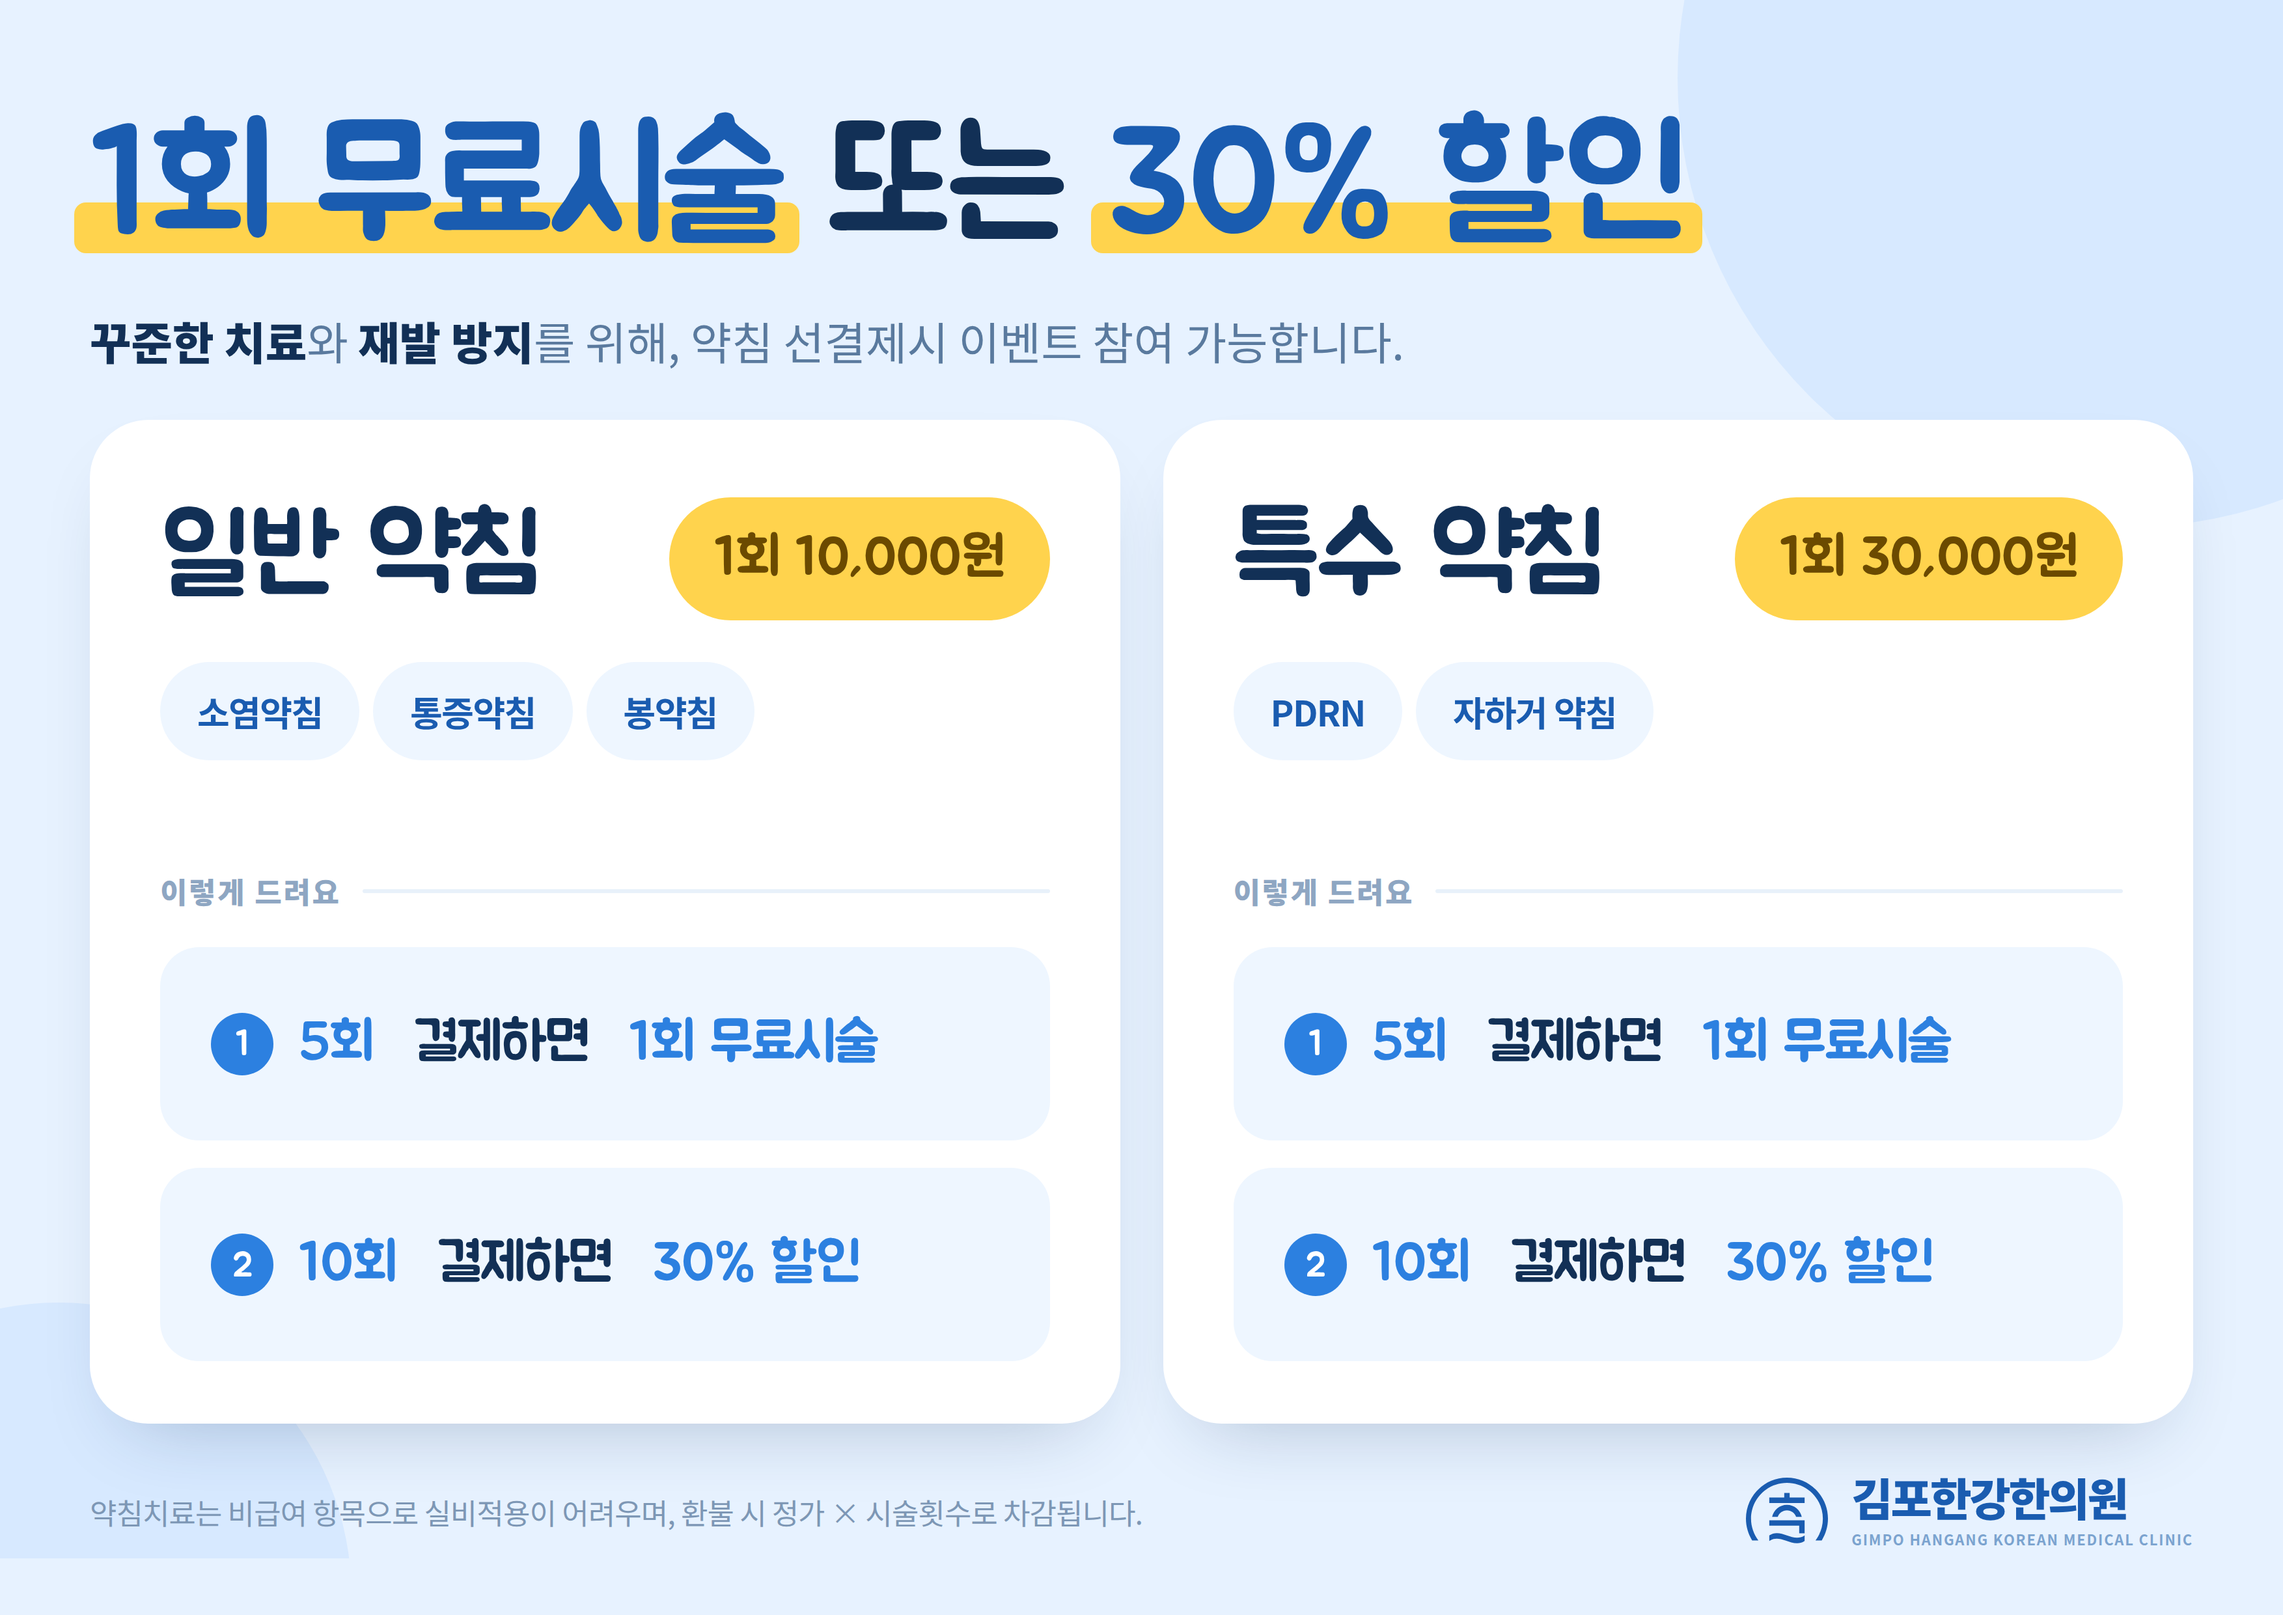
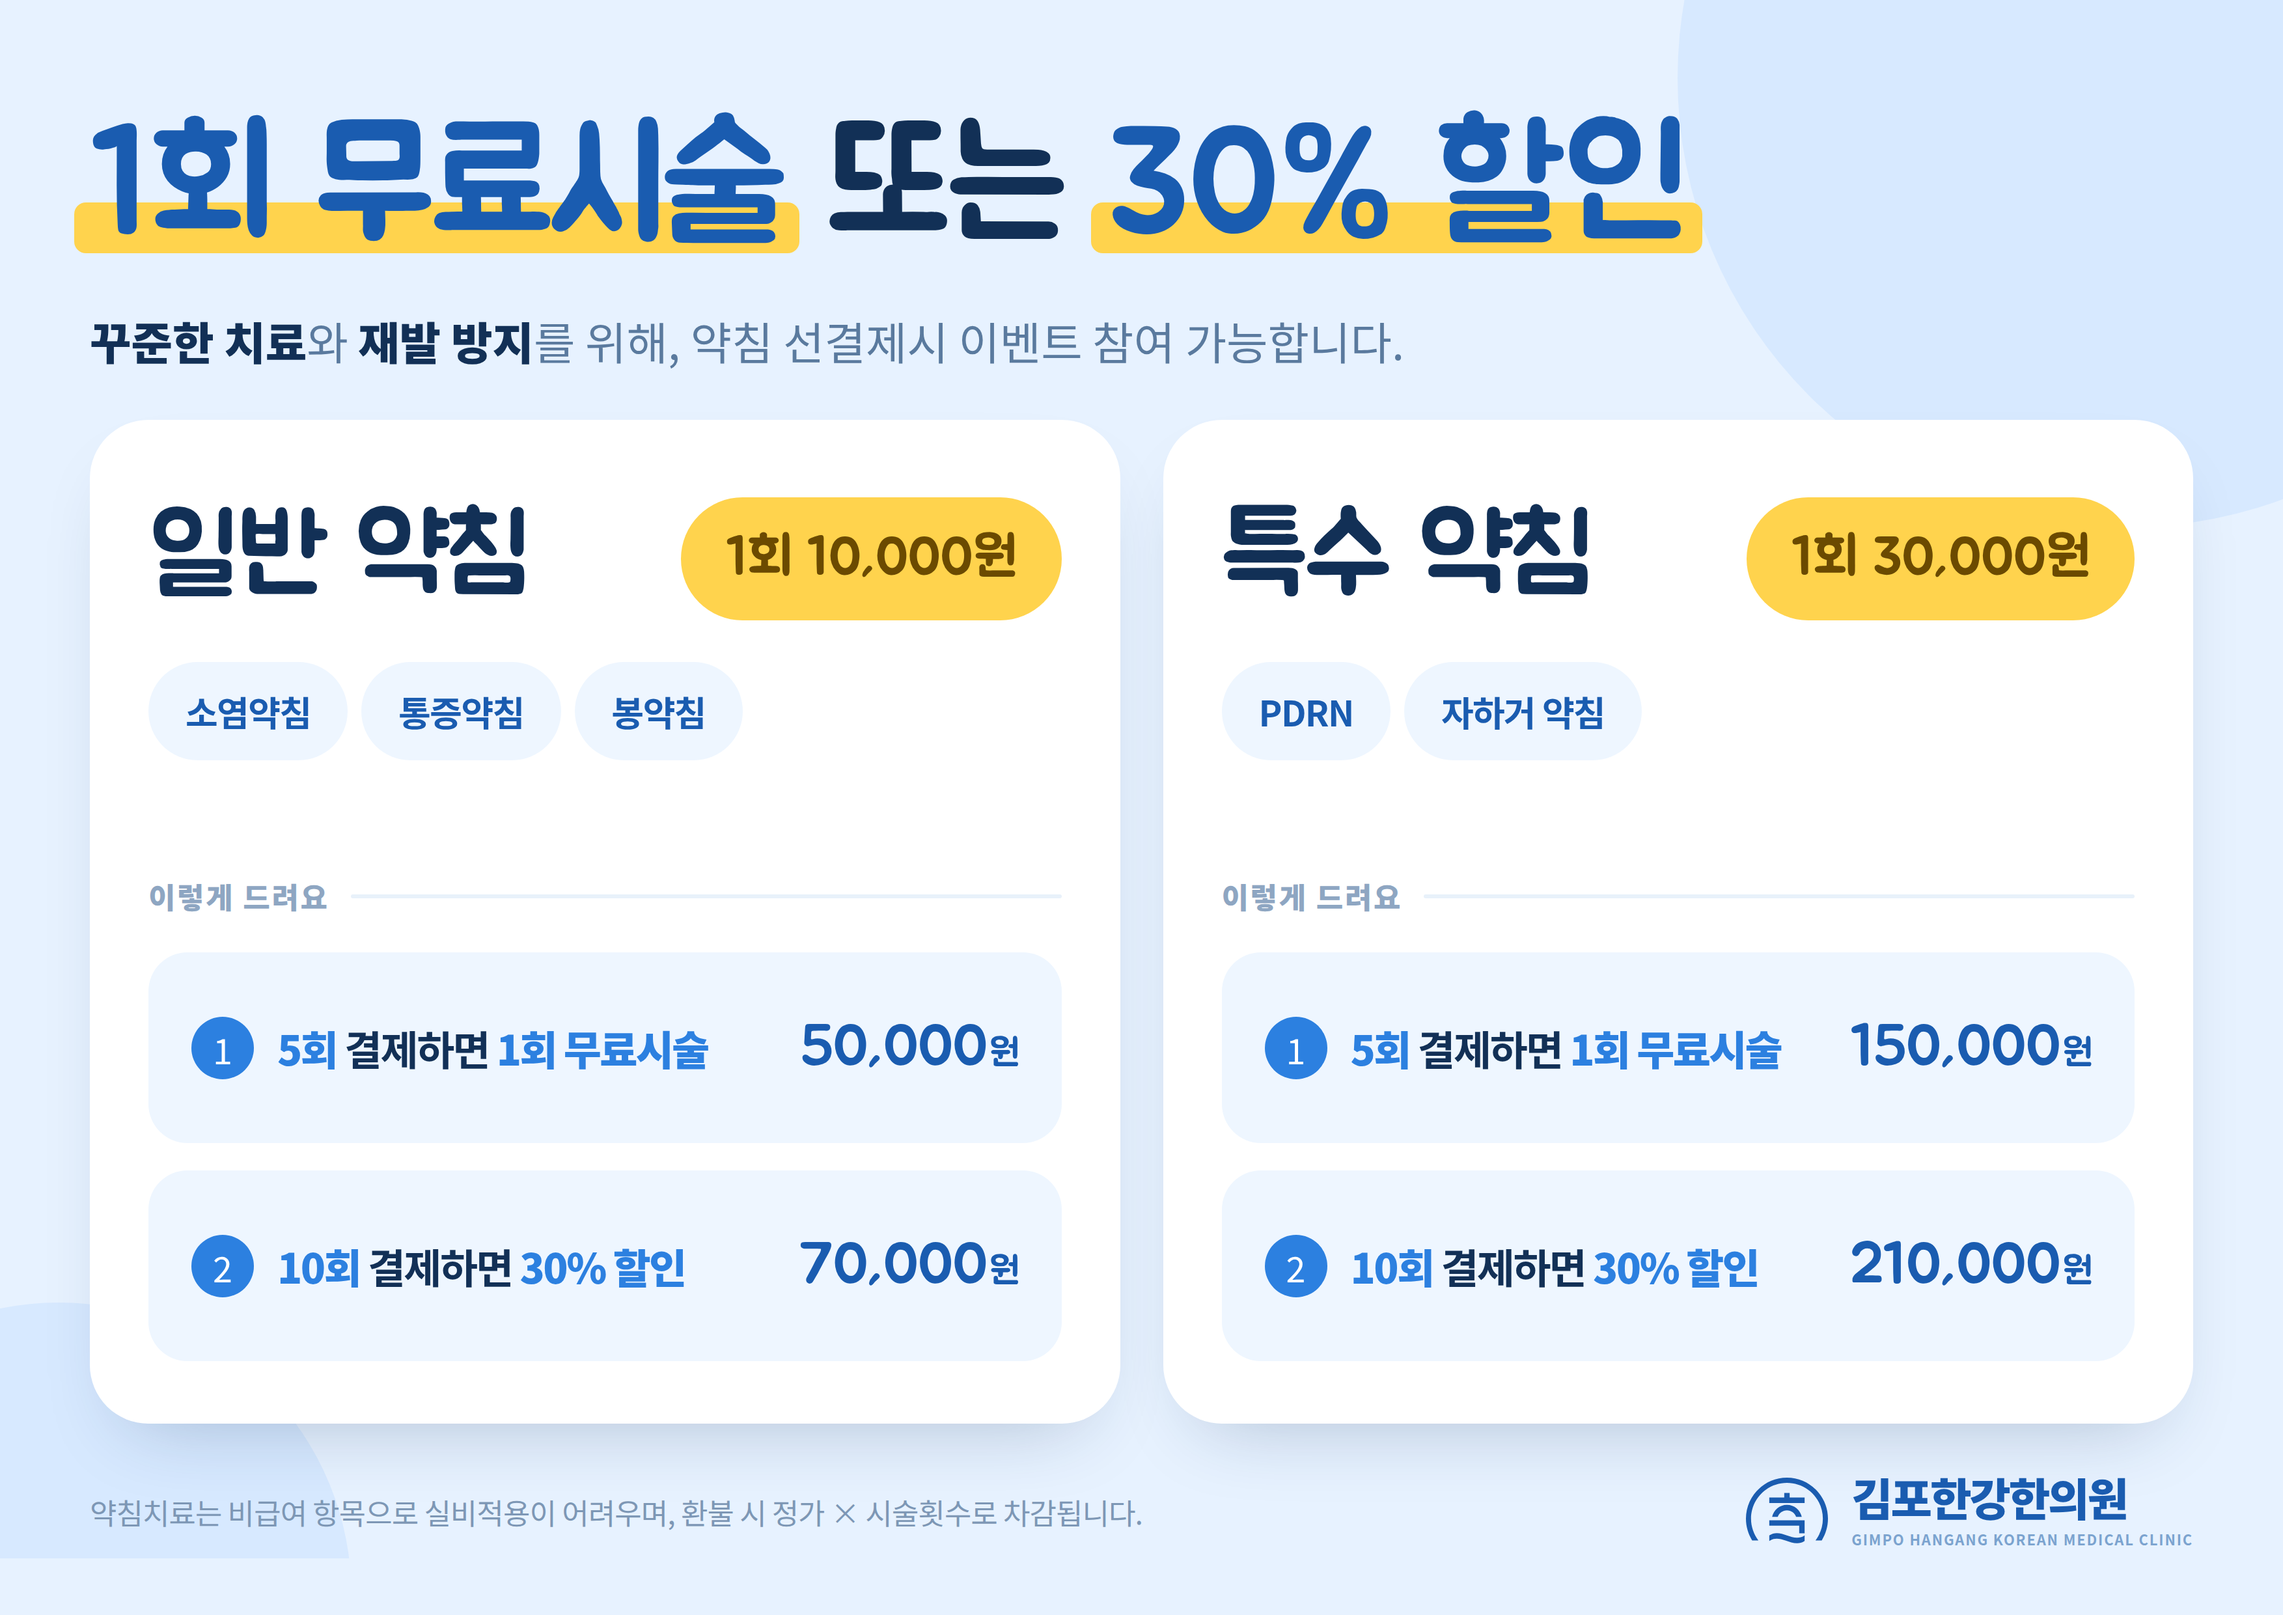
약침 안내 이미지에 옵션별 결제 금액 표시
1회 정가에서 계산해 혜택 줄 오른쪽에 붙였다.
할인은 총액 기준, 무료 1회는 값을 매기지 않았다(5회 값으로 6회 이용).

- 일반: 50,000원 / 70,000원
- 특수: 150,000원 / 210,000원

조건은 고딕, 금액은 둥근 서체로 나눠 한 줄에 나란히 세웠다.
계산 기준은 README 에 표로 적어 두었다 — 기준이 다르면 숫자를 고쳐야 한다.

Claude-Session: https://claude.ai/code/session_017DGhBSAmjkVB1vRVfDZGb9

diff --git a/tools/poster/yakchim-event.html b/tools/poster/yakchim-event.html
@@ -84,7 +84,7 @@
   }
   .card {
     background: var(--card); border-radius: 30px;
-    padding: 36px 36px 32px;
+    padding: 36px 30px 32px;
     box-shadow: 0 18px 40px -20px rgba(18, 48, 86, 0.28);
     display: flex; flex-direction: column;
   }
@@ -108,13 +108,19 @@
   .perklabel::after { content: ""; flex: 1; height: 2px; border-radius: 2px; background: #e8f1fa; }
   .perks { margin-top: 18px; }
   .perk {
-    display: flex; align-items: center; gap: 13px;
+    display: flex; align-items: center; gap: 12px;
     background: #eef6ff; border-radius: 20px;
-    padding: 32px 26px;
-    font-size: 28px; letter-spacing: -0.02em; color: var(--ink);
+    padding: 30px 22px;
+    color: var(--ink);
   }
   .perk + .perk { margin-top: 14px; }
-  .perk b { color: var(--blue); font-weight: 400; }
+  /* 조건은 고딕, 금액은 둥근 서체. 한 줄에 나란히 서야 하므로 조건 쪽을 좁게 잡는다 */
+  .perk .cond { font-size: 21px; font-weight: 700; letter-spacing: -0.04em; }
+  .perk .cond b { color: var(--blue); font-weight: 900; }
+  .perk .amt {
+    margin-left: auto; font-size: 30px; color: var(--blue-deep); letter-spacing: -0.02em;
+  }
+  .perk .amt u { text-decoration: none; font-size: 19px; padding-left: 1px; }
   .perk .n {
     flex: none; width: 32px; height: 32px; border-radius: 50%;
     background: var(--blue); color: #fff;
@@ -142,8 +148,8 @@
     <p class="for oneline"><span>소염약침</span><span>통증약침</span><span>봉약침</span></p>
     <p class="perklabel">이렇게 드려요</p>
     <div class="perks">
-      <p class="perk round oneline"><span class="n">1</span><b>5회</b>&nbsp;결제하면&nbsp;<b>1회 무료시술</b></p>
-      <p class="perk round oneline"><span class="n">2</span><b>10회</b>&nbsp;결제하면&nbsp;<b>30% 할인</b></p>
+      <p class="perk"><span class="n">1</span><span class="cond oneline"><b>5회</b> 결제하면 <b>1회 무료시술</b></span><span class="amt round oneline">50,000<u>원</u></span></p>
+      <p class="perk"><span class="n">2</span><span class="cond oneline"><b>10회</b> 결제하면 <b>30% 할인</b></span><span class="amt round oneline">70,000<u>원</u></span></p>
     </div>
   </section>
 
@@ -155,8 +161,8 @@
     <p class="for oneline"><span>PDRN</span><span>자하거 약침</span></p>
     <p class="perklabel">이렇게 드려요</p>
     <div class="perks">
-      <p class="perk round oneline"><span class="n">1</span><b>5회</b>&nbsp;결제하면&nbsp;<b>1회 무료시술</b></p>
-      <p class="perk round oneline"><span class="n">2</span><b>10회</b>&nbsp;결제하면&nbsp;<b>30% 할인</b></p>
+      <p class="perk"><span class="n">1</span><span class="cond oneline"><b>5회</b> 결제하면 <b>1회 무료시술</b></span><span class="amt round oneline">150,000<u>원</u></span></p>
+      <p class="perk"><span class="n">2</span><span class="cond oneline"><b>10회</b> 결제하면 <b>30% 할인</b></span><span class="amt round oneline">210,000<u>원</u></span></p>
     </div>
   </section>
 </main>

diff --git a/tools/poster/README.md b/tools/poster/README.md
@@ -13,11 +13,16 @@
 우리 병원 값은 **일반 약침 1회 10,000원 / 특수 약침 1회 30,000원** 이다.
 사진 속 원본 게시물의 금액(25,000·35,000…)은 다른 병원 것이라 쓰지 않는다.
 
-혜택은 **묶음 결제 총액이 아니라 조건으로** 적었다.
-`5회 결제하면 1회 무료시술`, `10회 결제하면 30% 할인` 이다.
-1회 정가만 정해져 있으므로 총액(50,000원, 70,000원 …)은 계산해서 넣지 않는다 —
-할인이 회당인지 총액인지, 무료 1회를 정가로 칠지에 따라 값이 달라진다.
-총액을 적으려면 그 기준부터 정하고 `.perk` 문구를 고쳐야 한다.
+옵션 금액은 **1회 정가에서 계산한 값**이다. 계산 기준은 이렇다.
+
+| | 일반 (1회 10,000원) | 특수 (1회 30,000원) |
+|---|---|---|
+| 5회 결제 + 1회 무료 | 10,000 × 5 = **50,000원** | 30,000 × 5 = **150,000원** |
+| 10회 결제 30% 할인 | 10,000 × 10 × 0.7 = **70,000원** | 30,000 × 10 × 0.7 = **210,000원** |
+
+즉 **할인은 총액 기준**이고, 무료 1회는 값을 매기지 않는다(5회 값으로 6회 이용).
+병원 기준이 다르면 — 예를 들어 할인을 회당으로 적용하거나 무료 1회를 정가로 친다면 —
+`.perk` 의 `.amt` 숫자를 그 기준으로 고쳐야 한다. **정가만 바꾸고 두면 값이 어긋난다.**
 
 카드 아래 태그는 **효능이 아니라 약침 종류**다(`.for` 의 `<span>`).
 일반 약침 — 소염약침·통증약침·봉약침, 특수 약침 — PDRN·자하거 약침.
